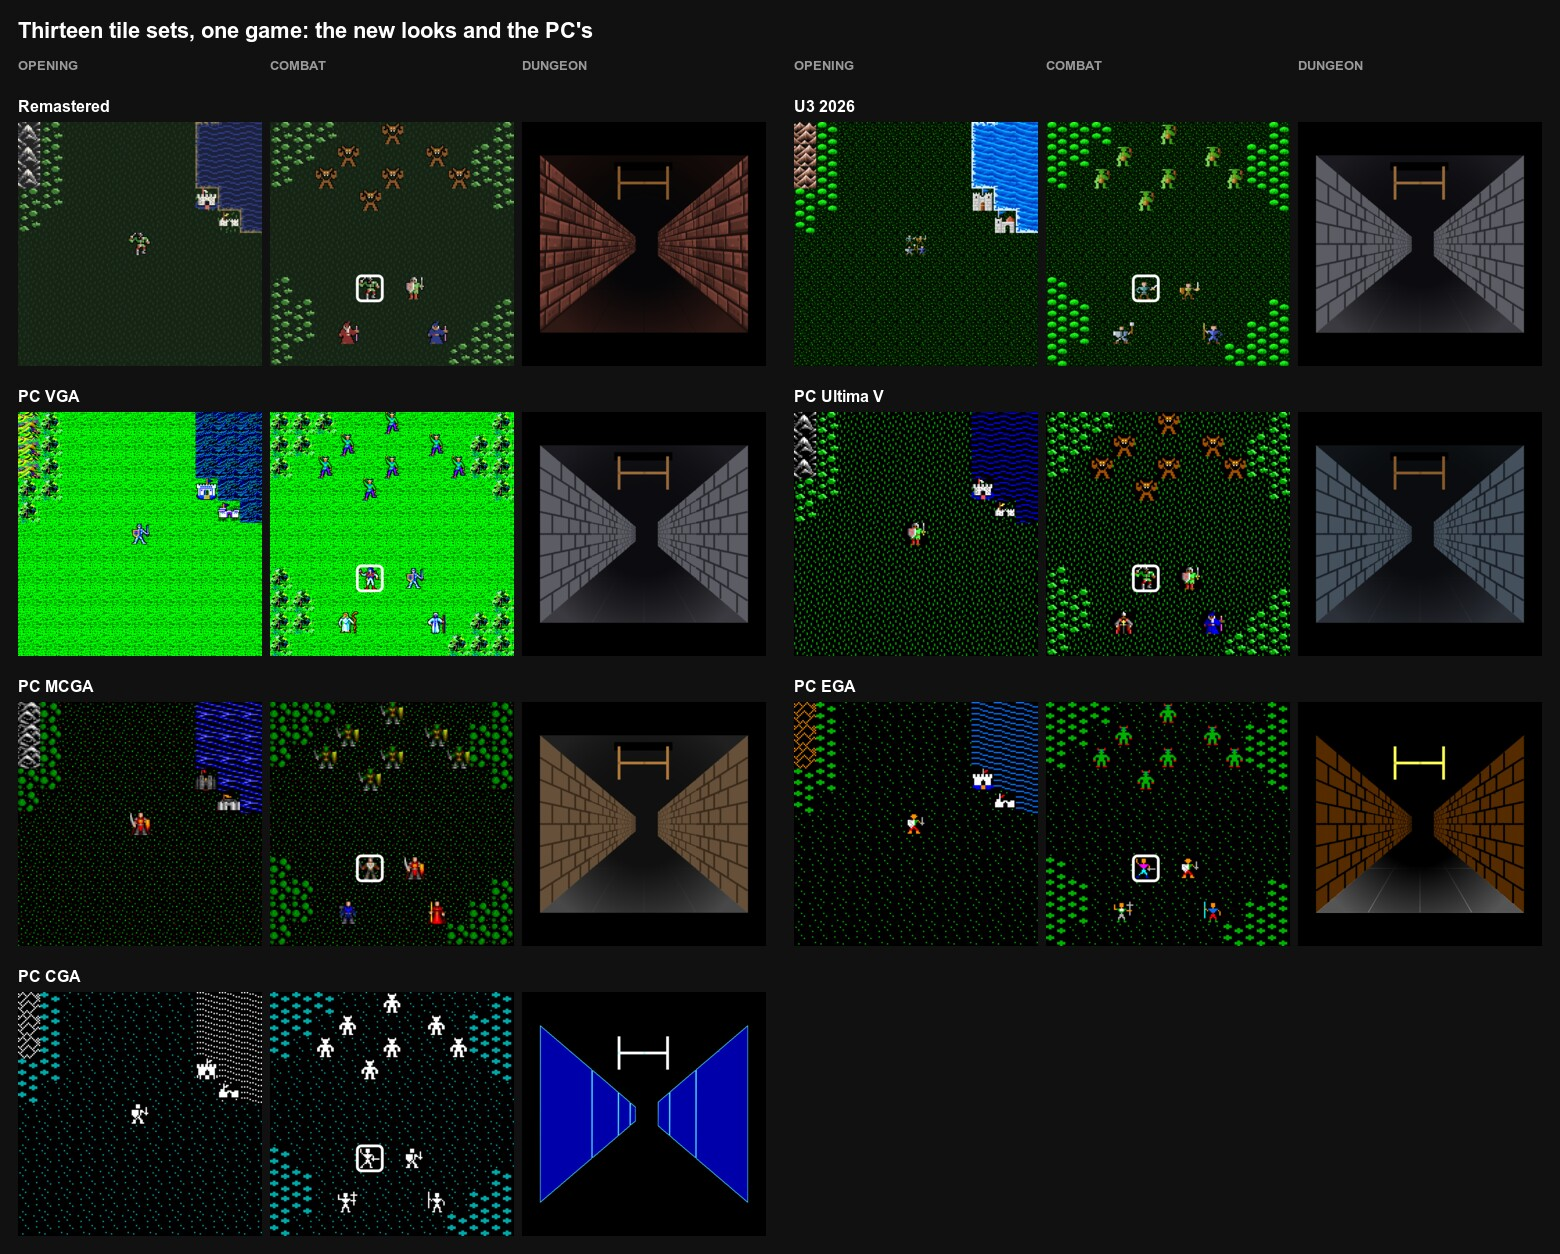
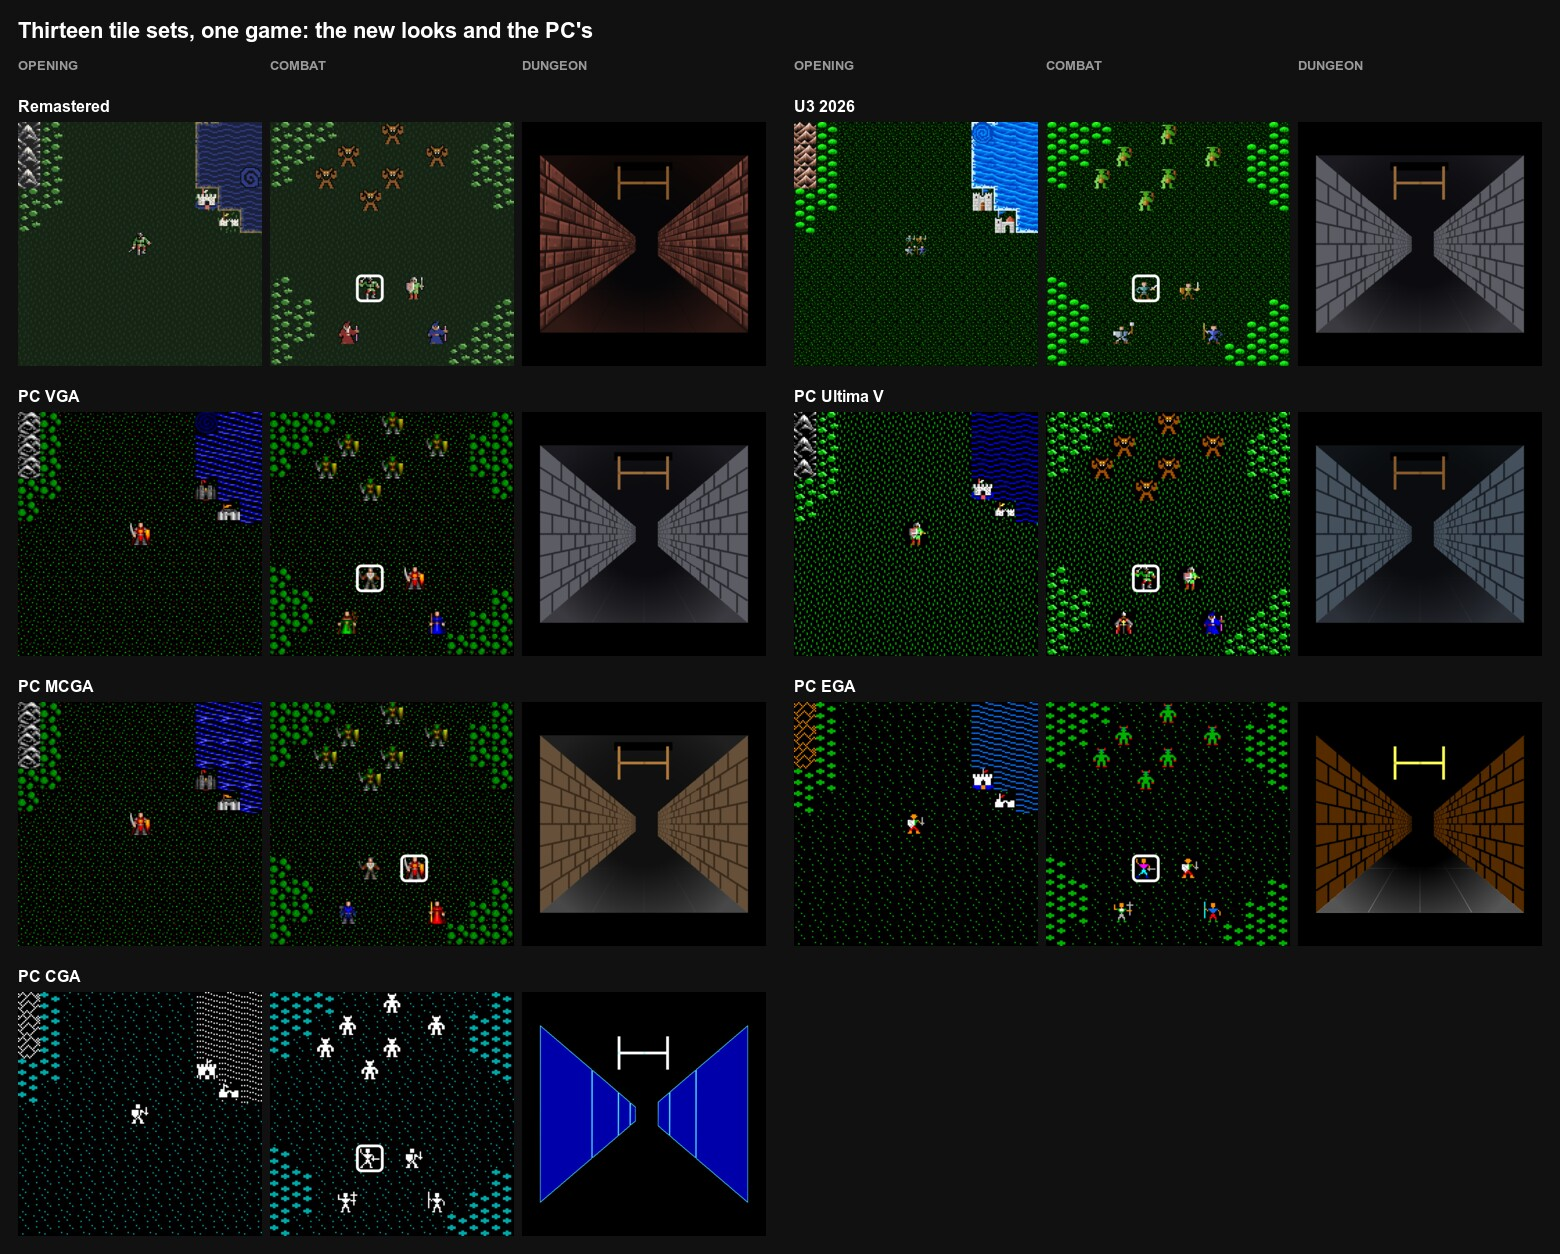
PC VGA in its real colours, from the Ultima III Upgrade's VGA tiles
LairWare's PC VGA sheet held eight colours only, every channel full on or off - a VGA palette's 0-63
levels taken as on or off - so greens, browns and greys came out lime, yellow and white. The sheet is
now drawn from the Ultima III Upgrade's VGA tile set (Voyager Dragon, The Exodus Project): SHAPES.VGA
and U3VGA.PAL, by web/tools/pc-vga-sheet.ts, in the game's layout, with the PC's second frames. The
party's shared figures are its fighter, cleric, wizard and thief; the monster variants, which the PC
never had, are its monsters recoloured; the door and Exodus's light panels stay LairWare's, in VGA
colours. LairWare's sheet is kept in web/art/pc-vga/ as the tool's input. The README credits the
Upgrade, and the tile-set sheets are taken again.

diff --git a/web/tools/pc-vga-sheet.ts b/web/tools/pc-vga-sheet.ts
@@ -1,0 +1,185 @@
+/**
+ * pc-vga-sheet.ts
+ *
+ * Rebuilds public/graphics/PC VGA-Tiles.png, the PC VGA tile set, in its real colours. LairWare's sheet (Lairware/
+ * Resources/Graphics/PC VGA-Tiles.gif) holds eight colours only - every channel full on or off, a VGA palette's 0-63
+ * levels taken as on or off - so its greens, browns and greys came out lime, yellow and white. The art is the Ultima
+ * III Upgrade's VGA tile set (Voyager Dragon, The Exodus Project: https://ultima3.ultimacodex.com/ultima-3-upgrade/),
+ * whose SHAPES.VGA (80 tiles of 16 x 16, a byte a pixel) and U3VGA.PAL (256 colours, 0-63 a channel) this reads:
+ *
+ *   node tools/pc-vga-sheet.ts <folder holding SHAPES.VGA and U3VGA.PAL>
+ *
+ * The sheet keeps the game's layout (tiles.ts: index i at column (i / 16) * 2, its second frame one column right,
+ * row i % 16; 32 px a cell, the PC's 16 x 16 doubled):
+ *
+ * - 0-63, the Apple II's tiles: SHAPES.VGA's own, in the same order; the figures' second frames (16-30) are its tiles
+ *   64-78, the whirlpool's its 79. Where it has no second frame and LairWare drew one, the first is drawn again (or
+ *   mirrored, where LairWare's second frame is its first mirrored).
+ * - 64-67, the party's shared figures (fighter, cleric, wizard, thief): its 20-23, with their second frames.
+ * - What the PC never drew - the door (the letter I's second frame), Exodus's four light panels, the monster variants
+ *   (80-95) - stays LairWare's drawing, its eight colours turned to the VGA colours they stand for, learnt from the
+ *   tiles both sheets hold.
+ *
+ * A cell is see-through where LairWare's is (the sheet's alpha), and where SHAPES.VGA's colour 0 lies in a figure's.
+ */
+import { readFileSync, writeFileSync } from 'node:fs';
+import { dirname, join } from 'node:path';
+import { fileURLToPath } from 'node:url';
+import { decodePng, encodePng, newImage, type Image } from './remastered/png.ts';
+
+const WEB = join(dirname(fileURLToPath(import.meta.url)), '..');
+const SHEET = join(WEB, 'public', 'graphics', 'PC VGA-Tiles.png');
+/** LairWare's sheet as the port had it (its alpha from the mask, the Devil's colours fixed): the layout, and the cells
+ * the PC never drew. Read from here, so the tool can be run again. */
+const LAIRWARE = join(WEB, 'art', 'pc-vga', 'LairWare-Tiles.png');
+const source = process.argv[2];
+if (!source) throw new Error('usage: node tools/pc-vga-sheet.ts <folder holding SHAPES.VGA and U3VGA.PAL>');
+
+const shapes = readFileSync(join(source, 'SHAPES.VGA'));
+const pal = readFileSync(join(source, 'U3VGA.PAL'));
+if (shapes.length !== 80 * 256 || pal.length !== 768) throw new Error('not the Upgrade 3.3 SHAPES.VGA and U3VGA.PAL');
+const old = decodePng(readFileSync(LAIRWARE));
+
+const CELL = 32;
+const ROWS = 16;
+const rgb = (i: number): [number, number, number] =>
+  [0, 1, 2].map((k) => Math.round((pal[i * 3 + k] * 255) / 63)) as [number, number, number];
+const flat = (c: [number, number, number]): string => c.map((v) => (v >= 128 ? 1 : 0)).join('');
+/** The cell of tile `index`, frame `frame`, in the sheet: its top left pixel. */
+const at = (index: number, frame: number): [number, number] => [(Math.floor(index / ROWS) * 2 + frame) * CELL, (index % ROWS) * CELL];
+
+/** A cell of `img` as 16 x 16 RGBA (the doubled sheet's every other pixel). */
+function cellOf(img: Image, x0: number, y0: number): Uint8Array {
+  const out = new Uint8Array(16 * 16 * 4);
+  for (let y = 0; y < 16; y++)
+    for (let x = 0; x < 16; x++)
+      out.set(
+        img.data.subarray(((y0 + y * 2) * img.width + x0 + x * 2) * 4, ((y0 + y * 2) * img.width + x0 + x * 2) * 4 + 4),
+        (y * 16 + x) * 4,
+      );
+  return out;
+}
+/** Nothing drawn: every pixel black or see-through. */
+const blank = (c: Uint8Array) => c.every((v, i) => i % 4 === 3 || v === 0 || c[i - (i % 4) + 3] === 0);
+const mirror = (c: Uint8Array) => {
+  const out = new Uint8Array(c.length);
+  for (let y = 0; y < 16; y++)
+    for (let x = 0; x < 16; x++) out.set(c.subarray((y * 16 + 15 - x) * 4, (y * 16 + 16 - x) * 4), (y * 16 + x) * 4);
+  return out;
+};
+const same = (a: Uint8Array, b: Uint8Array) => a.every((v, i) => v === b[i]);
+
+/** SHAPES.VGA tile `t`, mirrored or not, in 16 x 16 RGBA; `see` makes colour 0 see-through. */
+function tile(t: number, mirrored: boolean, see: boolean): Uint8Array {
+  const out = new Uint8Array(16 * 16 * 4);
+  for (let y = 0; y < 16; y++)
+    for (let x = 0; x < 16; x++) {
+      const i = shapes[t * 256 + y * 16 + (mirrored ? 15 - x : x)];
+      out.set([...rgb(i), see && i === 0 ? 0 : 255], (y * 16 + x) * 4);
+    }
+  return out;
+}
+
+const out = newImage(old.width, old.height);
+const put = (c: Uint8Array, x0: number, y0: number) => {
+  for (let y = 0; y < 32; y++)
+    for (let x = 0; x < 32; x++)
+      out.data.set(c.subarray(((y >> 1) * 16 + (x >> 1)) * 4, ((y >> 1) * 16 + (x >> 1)) * 4 + 4), ((y0 + y) * out.width + x0 + x) * 4);
+};
+
+// What each of LairWare's eight colours stands for: the VGA colour that most often comes out as it when its channels
+// are taken as on or off, over every pixel of SHAPES.VGA.
+const votes = new Map<string, Map<string, number>>();
+for (const i of shapes) {
+  const c = rgb(i);
+  const key = flat(c);
+  const m = votes.get(key) ?? new Map<string, number>();
+  m.set(c.join(','), (m.get(c.join(',')) ?? 0) + 1);
+  votes.set(key, m);
+}
+const done = new Set<string>();
+
+/** SHAPES.VGA tile `t` into the cell of index `index`, frame `frame`, see-through where LairWare's cell is. */
+function place(index: number, frame: number, t: number, mirrored = false) {
+  const [x0, y0] = at(index, frame);
+  const was = cellOf(old, x0, y0);
+  const see = was.some((v, i) => i % 4 === 3 && v === 0);
+  const now = tile(t, mirrored, see);
+  put(now, x0, y0);
+  done.add(`${index}:${frame}`);
+}
+
+for (let i = 0; i < 64; i++) {
+  if (i === 31) continue; // Exodus: blank in every sheet; its panels are the second frames of 32-35
+  place(i, 0, i);
+  const [x0, y0] = at(i, 1);
+  const second = cellOf(old, x0, y0);
+  if (i >= 16 && i <= 30) place(i, 1, i + 48);
+  else if (i === 12) place(i, 1, 79);
+  else if ((i >= 32 && i <= 35) || i === 46)
+    continue; // Exodus's panels; the door
+  else if (!blank(second)) place(i, 1, i, same(second, mirror(cellOf(old, ...at(i, 0)))));
+}
+for (let k = 0; k < 4; k++) {
+  place(64 + k, 0, 20 + k);
+  place(64 + k, 1, 68 + k);
+}
+
+// The monster variants (80-95, tiles.ts monsterVariantShape: two for each of thief, orc, skeleton, giant, daemon,
+// pincher, dragon and balron), which the PC never had: its monster recoloured, its hue turned a third of the way round
+// one way for the first variant and the other for the second, as the other sets' variants are recolours.
+function turned(c: Uint8Array, degrees: number): Uint8Array {
+  const out = new Uint8Array(c);
+  const cos = Math.cos((degrees * Math.PI) / 180);
+  const sin = Math.sin((degrees * Math.PI) / 180);
+  // Rotation about the grey axis (the usual hue-rotate matrix), so greys and black stay as they are.
+  const m = [
+    0.213 + cos * 0.787 - sin * 0.213,
+    0.715 - cos * 0.715 - sin * 0.715,
+    0.072 - cos * 0.072 + sin * 0.928,
+    0.213 - cos * 0.213 + sin * 0.143,
+    0.715 + cos * 0.285 + sin * 0.14,
+    0.072 - cos * 0.072 - sin * 0.283,
+    0.213 - cos * 0.213 - sin * 0.787,
+    0.715 - cos * 0.715 + sin * 0.715,
+    0.072 + cos * 0.928 + sin * 0.072,
+  ];
+  for (let p = 0; p < c.length; p += 4) {
+    const [r, g, b] = [c[p], c[p + 1], c[p + 2]];
+    for (let k = 0; k < 3; k++) out[p + k] = Math.max(0, Math.min(255, Math.round(m[k * 3] * r + m[k * 3 + 1] * g + m[k * 3 + 2] * b)));
+  }
+  return out;
+}
+for (let index = 80; index < 96; index++) {
+  const base = 23 + ((index - 80) >> 1);
+  const degrees = (index - 80) % 2 === 0 ? 120 : -120;
+  for (let frame = 0; frame < 2; frame++) {
+    const [x0, y0] = at(index, frame);
+    put(turned(tile(frame ? base + 48 : base, false, true), degrees), x0, y0);
+    done.add(`${index}:${frame}`);
+  }
+}
+
+// The rest, LairWare's drawings in those colours.
+const learnt = new Map<string, [number, number, number]>([['000', [0, 0, 0]]]);
+for (const [key, m] of votes) {
+  if (key === '000') continue;
+  const best = [...m.entries()].sort((a, b) => b[1] - a[1])[0][0];
+  learnt.set(key, best.split(',').map(Number) as [number, number, number]);
+}
+for (let index = 0; index < 96; index++)
+  for (let frame = 0; frame < 2; frame++) {
+    if (done.has(`${index}:${frame}`)) continue;
+    const [x0, y0] = at(index, frame);
+    for (let y = 0; y < CELL; y++)
+      for (let x = 0; x < CELL; x++) {
+        const o = ((y0 + y) * old.width + x0 + x) * 4;
+        const a = old.data[o + 3];
+        const c = learnt.get(flat([old.data[o], old.data[o + 1], old.data[o + 2]])) ?? [old.data[o], old.data[o + 1], old.data[o + 2]];
+        out.data.set(a === 0 ? [0, 0, 0, 0] : [...c, a], o);
+      }
+  }
+
+writeFileSync(SHEET, encodePng(out));
+console.log(`wrote ${SHEET}`);
+for (const [key, c] of learnt) console.log(`  ${key} -> rgb(${c.join(',')})`);

diff --git a/README.md b/README.md
@@ -579,6 +579,11 @@ fire there, under a slate roof in its own grain.
 Changes that make each of the older tile sets look more like its machine
 than the Mac version did.
 
+- The PC VGA set is in its real colours. LairWare's sheet held only eight
+  colours, each channel full on or off, so its greens, browns and greys
+  came out lime, yellow and white; it is now drawn from the Ultima III
+  Upgrade's own VGA tiles and palette, and its monster variants are
+  recolours of those monsters.
 - The NES set's water has surf along its coasts, white and light blue
   speckle as Ultima: Exodus drew it, where LairWare's sheet had plain
   water square against land. U3 2026 has the same, in white foam over
@@ -1231,6 +1236,9 @@ owners'; its years are set in IM FELL
 English by Igino Marini, under the SIL Open Font License (`web/art/fonts/`).
 The Standard lettering is made from Sixtyfour by The Sixtyfour Project
 Authors, also under the SIL Open Font License (`web/art/fonts/`).
+The PC VGA tile set is the VGA tile set of the Ultima III Upgrade by
+Voyager Dragon (The Exodus Project), read from its `SHAPES.VGA` and
+`U3VGA.PAL` (`web/tools/pc-vga-sheet.ts`, `web/art/pc-vga/`).
 
 ---
 

diff --git a/web/art/pc-vga/README.md b/web/art/pc-vga/README.md
@@ -1,0 +1,13 @@
+# PC VGA
+
+`LairWare-Tiles.png` is the PC VGA sheet as the port first had it:
+LairWare's `PC VGA-Tiles.gif`, its alpha from the mask, the
+Devil's colours fixed. Its colours are eight only (every channel full on or
+off), so `tools/pc-vga-sheet.ts` takes from it no more than the layout and
+the few cells the PC never drew (the door, Exodus's light panels), and
+draws the rest - `public/graphics/PC VGA-Tiles.png` - from the Ultima III
+Upgrade's VGA tile set: `SHAPES.VGA` and `U3VGA.PAL` from
+[u3upgrade-3.3.zip](https://ultima3.ultimacodex.com/ultima-3-upgrade/) by
+Voyager Dragon (The Exodus Project). Unpack the zip and run, in `web/`:
+
+    node tools/pc-vga-sheet.ts <the unpacked folder>
